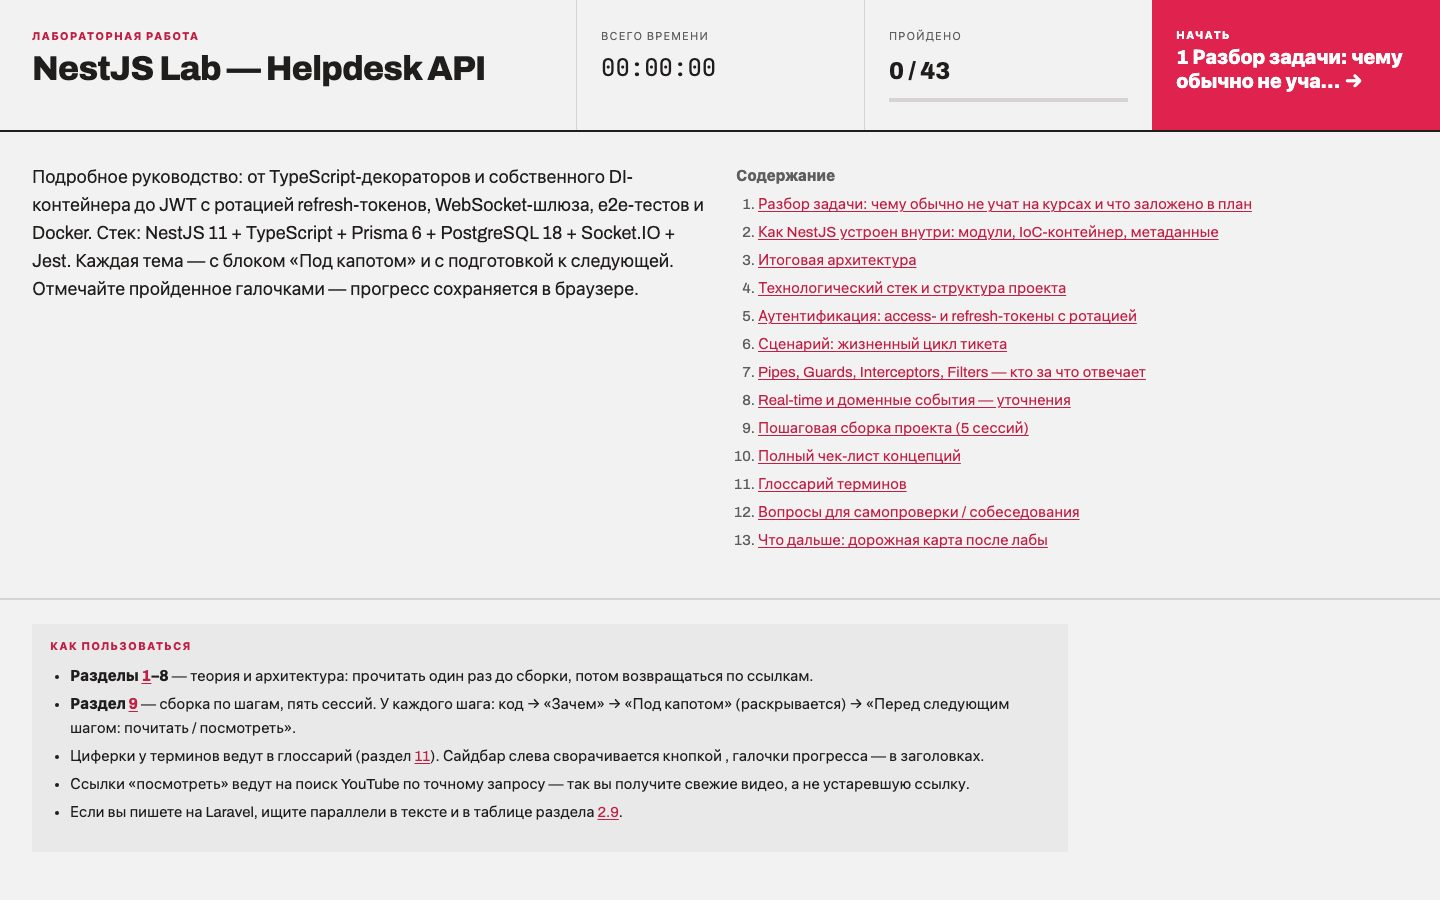
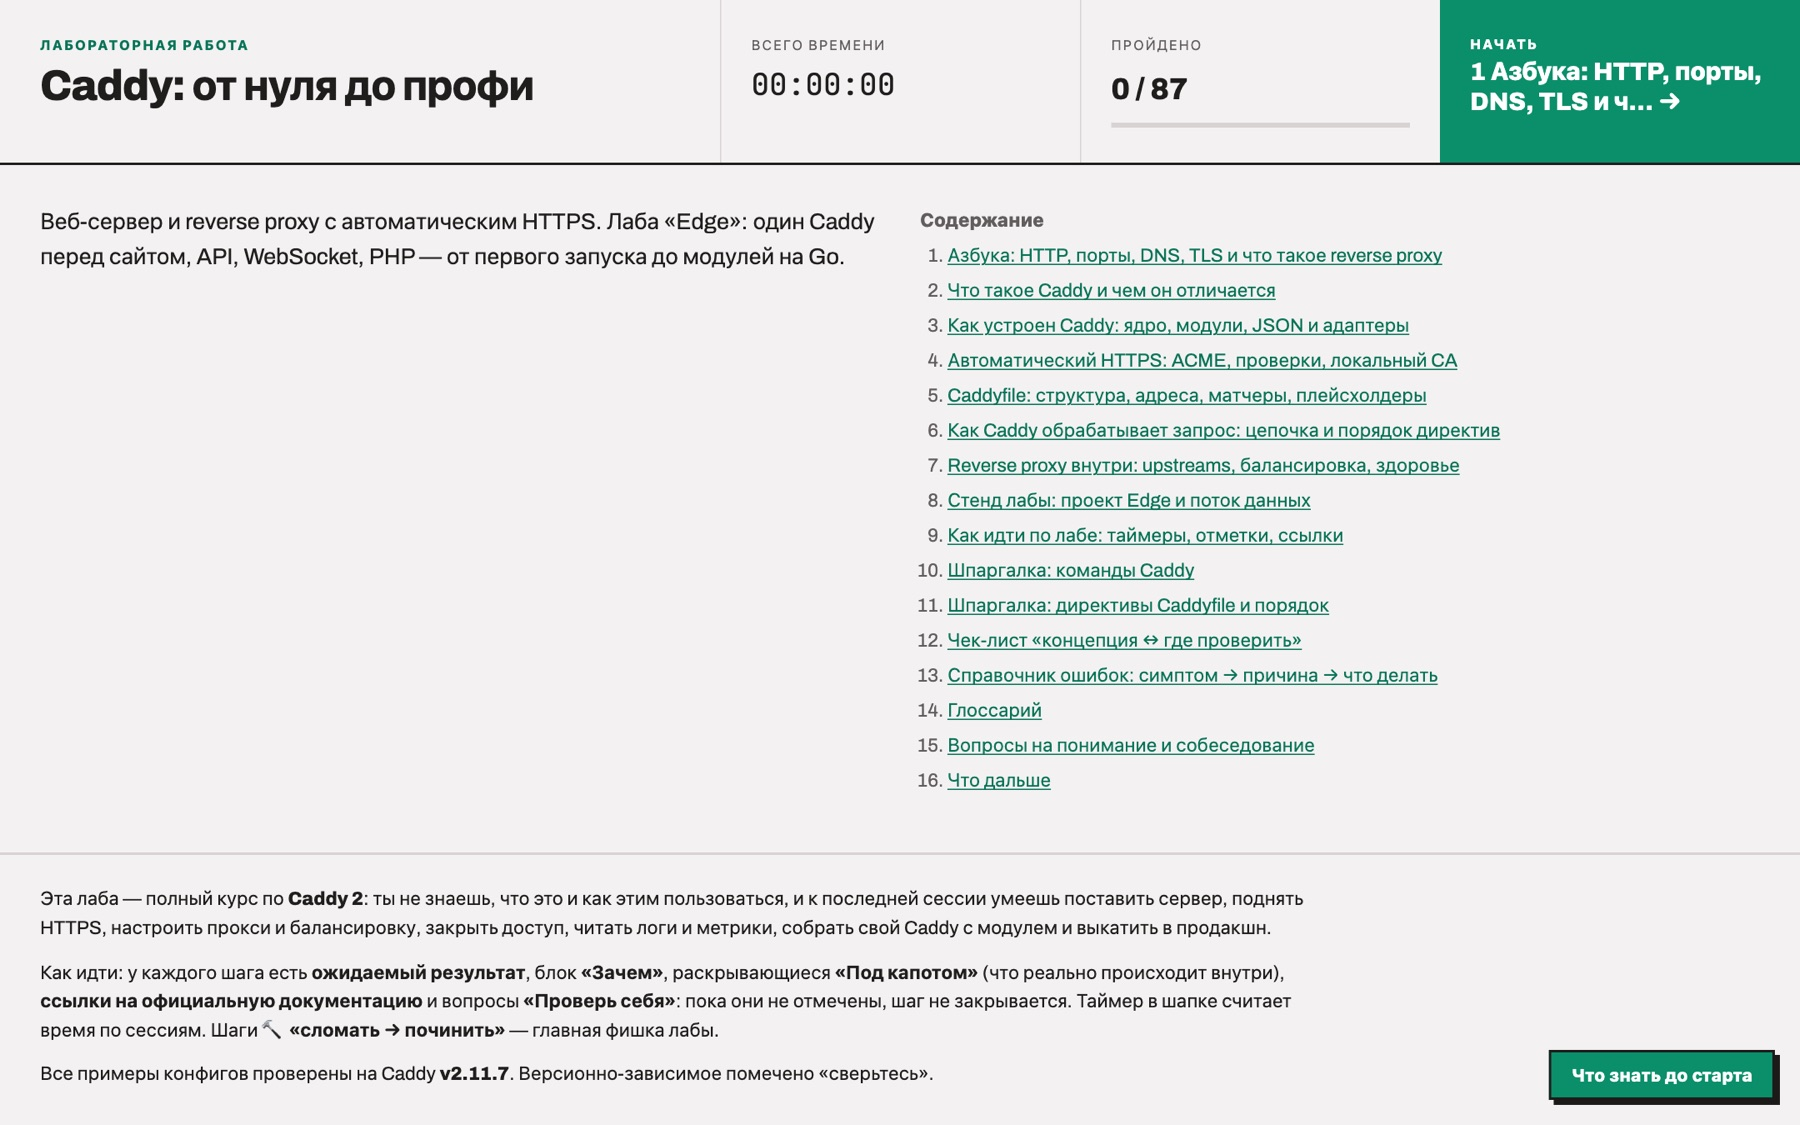
README images: use repo/raw GitHub URLs (camo cannot fetch the bucket), new Caddy screenshots, Node 24 in Caddy card

diff --git a/index.html b/index.html
@@ -1787,7 +1787,7 @@
       subtitle: 'Edge — веб-сервер и reverse proxy с автоматическим HTTPS',
       image: 'https://meeymirita-files.storage.yandexcloud.net/caddy/caddy-server.png',
       desc: 'Один Caddy перед сайтом, API, WebSocket и PHP: Caddyfile вместо nginx + certbot, HTTPS из коробки, балансировка, безопасность, своя сборка через xcaddy.',
-      stack: ['Caddy 2.11.7', 'Docker Compose', 'Node.js 22', 'PHP 8.4-FPM'],
+      stack: ['Caddy 2.11.7', 'Docker Compose', 'Node.js 24', 'PHP 8.4-FPM'],
       note: 'Нужен Docker для сессии 7, Go/xcaddy — для сессии 12; публичный домен только для настоящего Let\'s Encrypt (проверяете сами), локально HTTPS работает без них.',
       difficulty: 'Средняя',
       open: 'https://meeymirita-files.storage.yandexcloud.net/caddy/caddy.html',

diff --git a/CLAUDE.md b/CLAUDE.md
@@ -42,7 +42,7 @@
 
 **Актуальный статус лаб — строки «Статус:» в корневом `README.md` и README каждой лабы.** Читать их, а не полагаться на память.
 
-**Картинки и методички — с Object Storage, не из репозитория (с 05.10.2026).** Бакет Yandex Cloud `meeymirita-files` (публичное чтение, `https://meeymirita-files.storage.yandexcloud.net/<лаба>/<файл>`) отдаёт по папке на лабу: обложка (`<лаба>/<оригинальное-имя>.png`), методичка (`<лаба>/<имя-методички>.html` — если в сабмодуле она лежала в `docs/`, в бакете всё равно плоско), `README.md`, `thumb.webp`. Плюс `site/me.jpg` (фото автора) и `site/screenshots/1..4.jpg` (скрины модалки «О проекте»). На это ссылаются `image`/`open`/`thumb` в `index.html`, `works/js/lab.js`, `works/js/lab-anime.js`, `works/progress.html` и картинка в README каждой лабы — **нигде в site-коде больше нет локальных путей вида `<лаба>/<файл>.png` или `works/images/thumbs/...`.**
+**Картинки и методички — с Object Storage, не из репозитория (с 05.10.2026).** Бакет Yandex Cloud `meeymirita-files` (публичное чтение, `https://meeymirita-files.storage.yandexcloud.net/<лаба>/<файл>`) отдаёт по папке на лабу: обложка (`<лаба>/<оригинальное-имя>.png`), методичка (`<лаба>/<имя-методички>.html` — если в сабмодуле она лежала в `docs/`, в бакете всё равно плоско), `README.md`, `thumb.webp`. Плюс `site/me.jpg` (фото автора) и `site/screenshots/1..4.jpg` (скрины модалки «О проекте»). На это ссылаются `image`/`open`/`thumb` в `index.html`, `works/js/lab.js`, `works/js/lab-anime.js`, `works/progress.html` и (до 05.10) картинка в README каждой лабы — теперь она на raw.githubusercontent.com, см. «Картинки в README» — **нигде в site-коде больше нет локальных путей вида `<лаба>/<файл>.png` или `works/images/thumbs/...`.**
 - Сами обложки больше НЕ лежат в корне сабмодуля лабы (убрано 05.10, чтобы непройденная лаба = только методичка + README). Один архивный экземпляр всех 21 — в `works/images/<ключ>.png` (имя по ключу лабы, не по оригинальному файлу — у `php` и `php-coffee` оригиналы одинаково назывались `php.png`, коллизия). `works/images/thumbs/*.webp` остаются в репозитории как есть (сайт их тоже грузит с бакета, но локальная копия — источник для будущей перегенерации).
 - Гит остаётся версионностью (сабмодуль лабы = источник методички и README; `works/images/` = источник картинок), бакет — только раздача. **Синхронизация — `python3 tools/sync-bucket.py`** (05.10.2026; репозиторий — источник правды, бакет приводится к нему: новое грузится, изменённое заменяется по MD5, лишнее в папках лаб и `site/` удаляется; `old_files/` не трогает, кроме `old_files/last-sync/`: туда перед каждым изменяющим прогоном копируются прежние версии заменяемых/удаляемых файлов, прошлая копия стирается). GitHub Pages выключен (05.10.2026, через API). `--dry-run` показывает разницу без ключей. Для загрузки нужны `YC_ACCESS_KEY_ID`/`YC_SECRET_ACCESS_KEY` (env или `~/.config/anitech/yc.env`) и `pip install boto3`. **Автозапуск после пуша — `.github/workflows/sync-bucket.yml` (работает с 05.10: секреты `YC_ACCESS_KEY_ID`/`YC_SECRET_ACCESS_KEY` заданы в репозитории; первый прогон загрузил `caddy.html` и удалил 22 старых имени методичек). Если запуск упал на checkout — подмодуль не запушен (`not our ref`): запушить его и сделать `gh run rerun`.** Деплой самого сайта на хостинг в него ещё не добавлен (способ не выяснен). Источники: методичка `<лаба>/<лаба>.html`, README, миниатюра `works/images/thumbs/<лаба>.webp`, обложка `works/images/<лаба>.png` (имя в бакете берётся из `image:` в `index.html`), `works/images/me.jpg`, `docs/screenshots/*.jpg`. Детали и цифры — `yandex-cloud-free-tier.md` в корне (не в гите) и артефакт-документ, ссылка там же.
 - Новую лабу интегрировать с этим в голове — см. п.1 и п.4 чек-листа ниже, туда тоже нужна загрузка в бакет.
@@ -66,6 +66,8 @@
 **Воркер прогресса и CORS (05.10.2026):** методички открываются с `meeymirita-files.storage.yandexcloud.net`, поэтому воркер должен разрешать и этот адрес (список `ORIGINS` в `tools/progress-worker/worker.js` + переменная воркера `EXTRA_ORIGINS` в Cloudflare; копия кода в панели вручную). Симптом, если не так: в методичке «нет связи с Worker», а на `works/progress.html` всё работает.
 
 **Пароль на /mira/ (05.10.2026):** вход через форму `/mira-login/` (файл `mira-login/index.html`, публичный), логин `mira`, пароль выбирает пользователь (в репозитории и в `CLAUDE.md` его нет). Проверка — Caddy: `POST /mira-api/login` с `Authorization: Basic` (bcrypt-хеш), при успехе `Set-Cookie: mira_session=<случайный ключ>`; без cookie `/mira/*` → 302 на форму; `/mira-api/logout` сбрасывает cookie. Ставит/меняет `deploy/protect-mira.sh` на сервере (пишет `/etc/caddy/mira-auth.conf` с правами `root:caddy 640` — Caddy работает под пользователем `caddy`!, и вставляет `import` в блок anitech после `root * /var/www/anitech-performance`); смена пароля = выход со всех устройств. **Не перетирать эти правки в Caddyfile.** Исходники публичные — секретов на страницах быть не должно. `curl` без cookie на `/mira/` даёт 302, не 401. Не `curl | bash` сразу после правки скрипта: GitHub несколько минут отдаёт старую версию из кеша.
+
+**Картинки в README (05.10.2026):** прокси GitHub (camo) **не может взять картинки из бакета Yandex** (отвечает 404 — в README видны только подписи), поэтому в README картинки из бакета НЕ ставить. Корневой README берёт скриншоты из `docs/screenshots/*.jpg` (относительные пути; тот же каталог синхронизируется в бакет `site/screenshots/` для окна «О проекте»); README каждой лабы — обложку по `https://raw.githubusercontent.com/meeymirita/works-lab/main/images/<ключ>.png` (raw GitHub показывает напрямую). Скриншоты «Как это выглядит» сняты на примере Caddy Lab (1440×900, ×1.5, JPEG 1800 px; оригиналы PNG — `screenshots-check/2026-10-05/`); при редизайне снимать заново: закрыть Escape окно «О проекте» на главной, в методичке нажать «Понятно, начать» и «Закрыть» у плашки синхронизации, скрыть плавающую кнопку ☁.
 
 ## Правила git
 

diff --git a/README.md b/README.md
@@ -8,13 +8,13 @@
 
 ## Как это выглядит
 
-На примере NestJS Lab: карточка на главной → страница лабы с описанием → оглавление методички → сама методичка.
+На примере Caddy Lab: карточка на главной → страница лабы с описанием → оглавление методички → сама методичка.
 
 | Карточки лаб на главной | Страница лабы |
 |---|---|
-| ![Карточки лаб](https://meeymirita-files.storage.yandexcloud.net/site/screenshots/1-cards.jpg) | ![Страница лабы](https://meeymirita-files.storage.yandexcloud.net/site/screenshots/2-lab-page.jpg) |
+| ![Карточки лаб](docs/screenshots/1-cards.jpg) | ![Страница лабы](docs/screenshots/2-lab-page.jpg) |
 | **Оглавление методички** | **Методичка** |
-| ![Оглавление](https://meeymirita-files.storage.yandexcloud.net/site/screenshots/3-toc.jpg) | ![Методичка](https://meeymirita-files.storage.yandexcloud.net/site/screenshots/4-manual.jpg) |
+| ![Оглавление](docs/screenshots/3-toc.jpg) | ![Методичка](docs/screenshots/4-manual.jpg) |
 
 ## Работы
 
